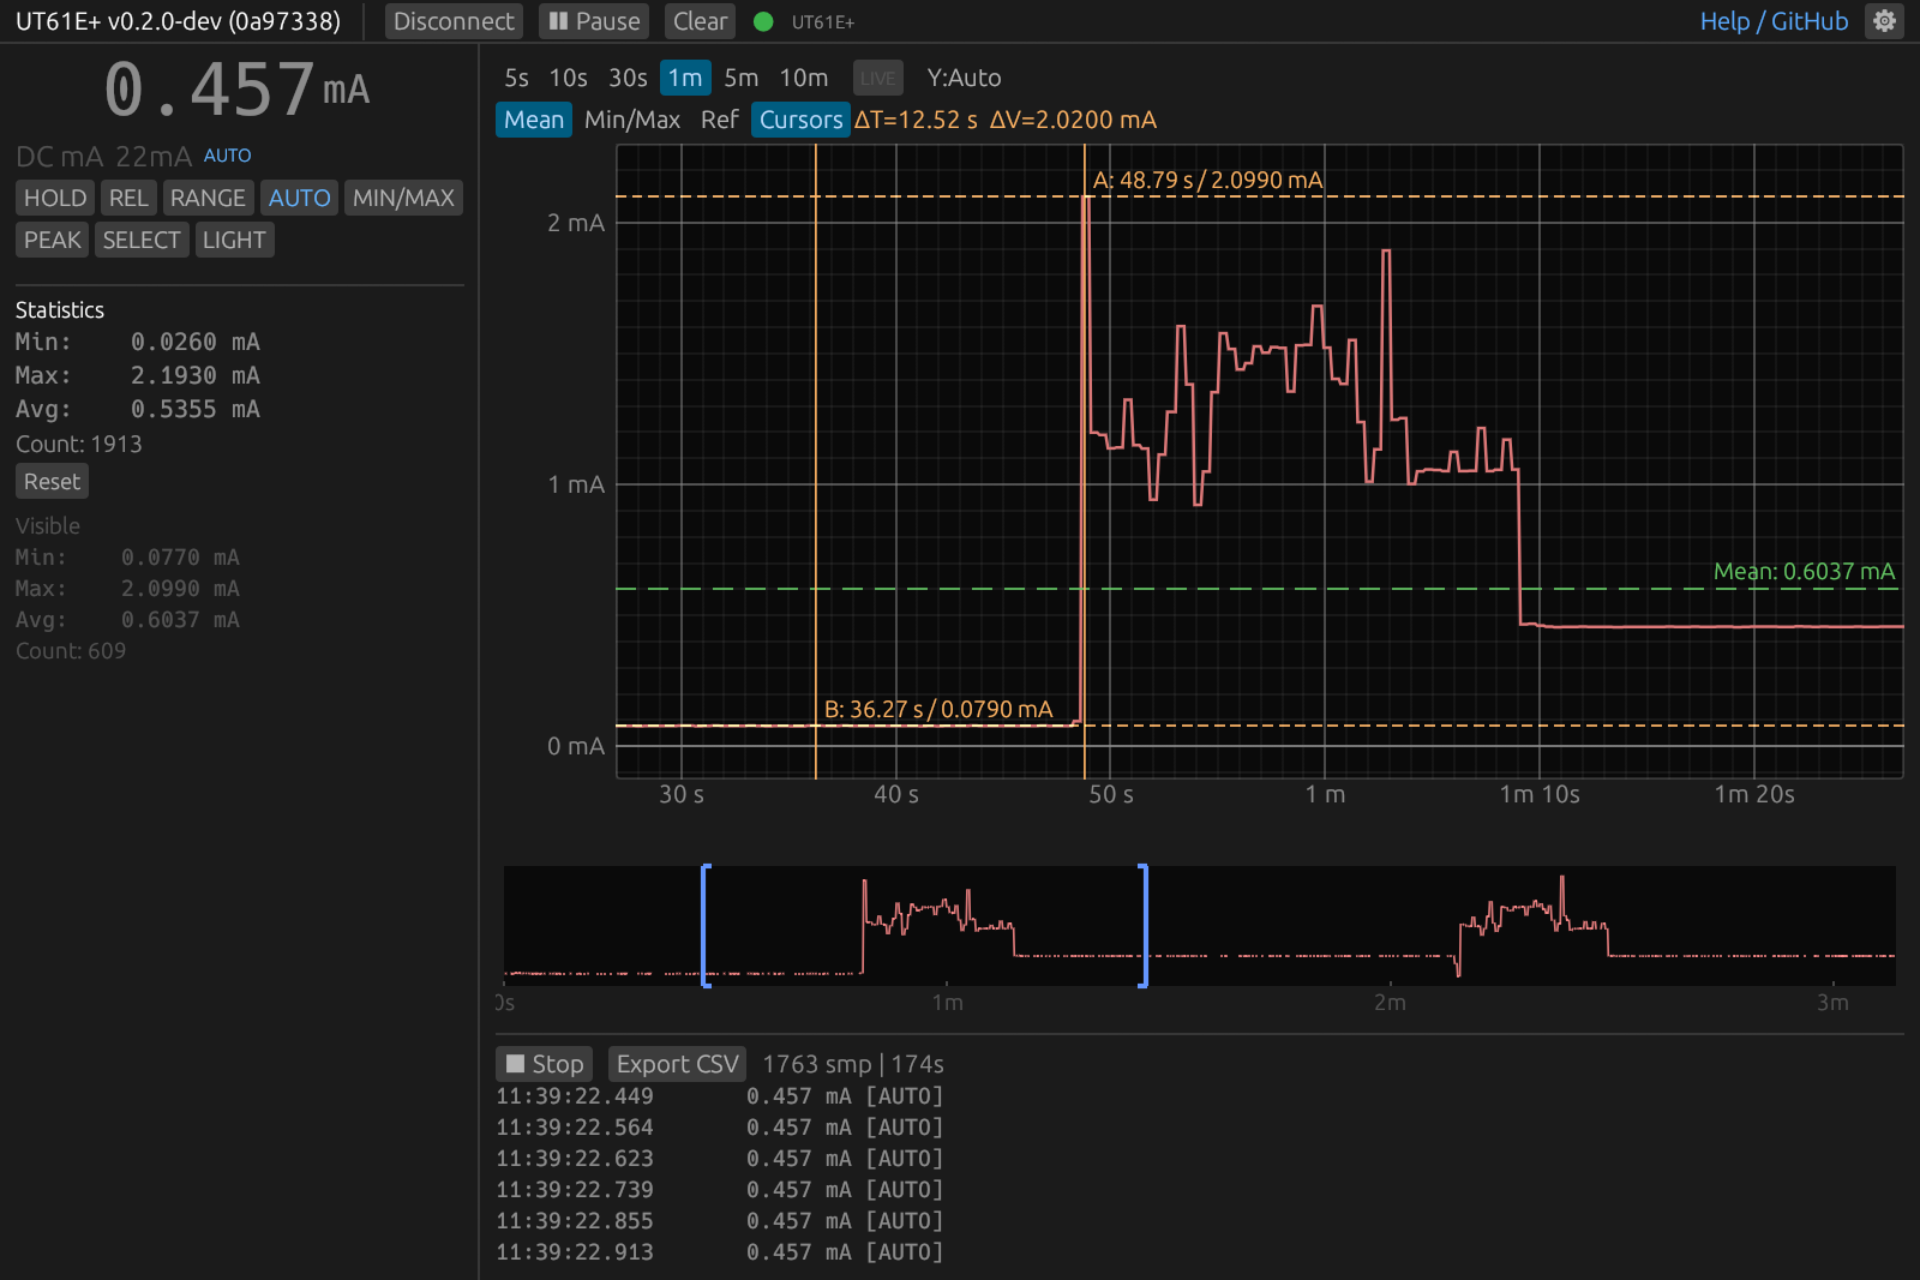
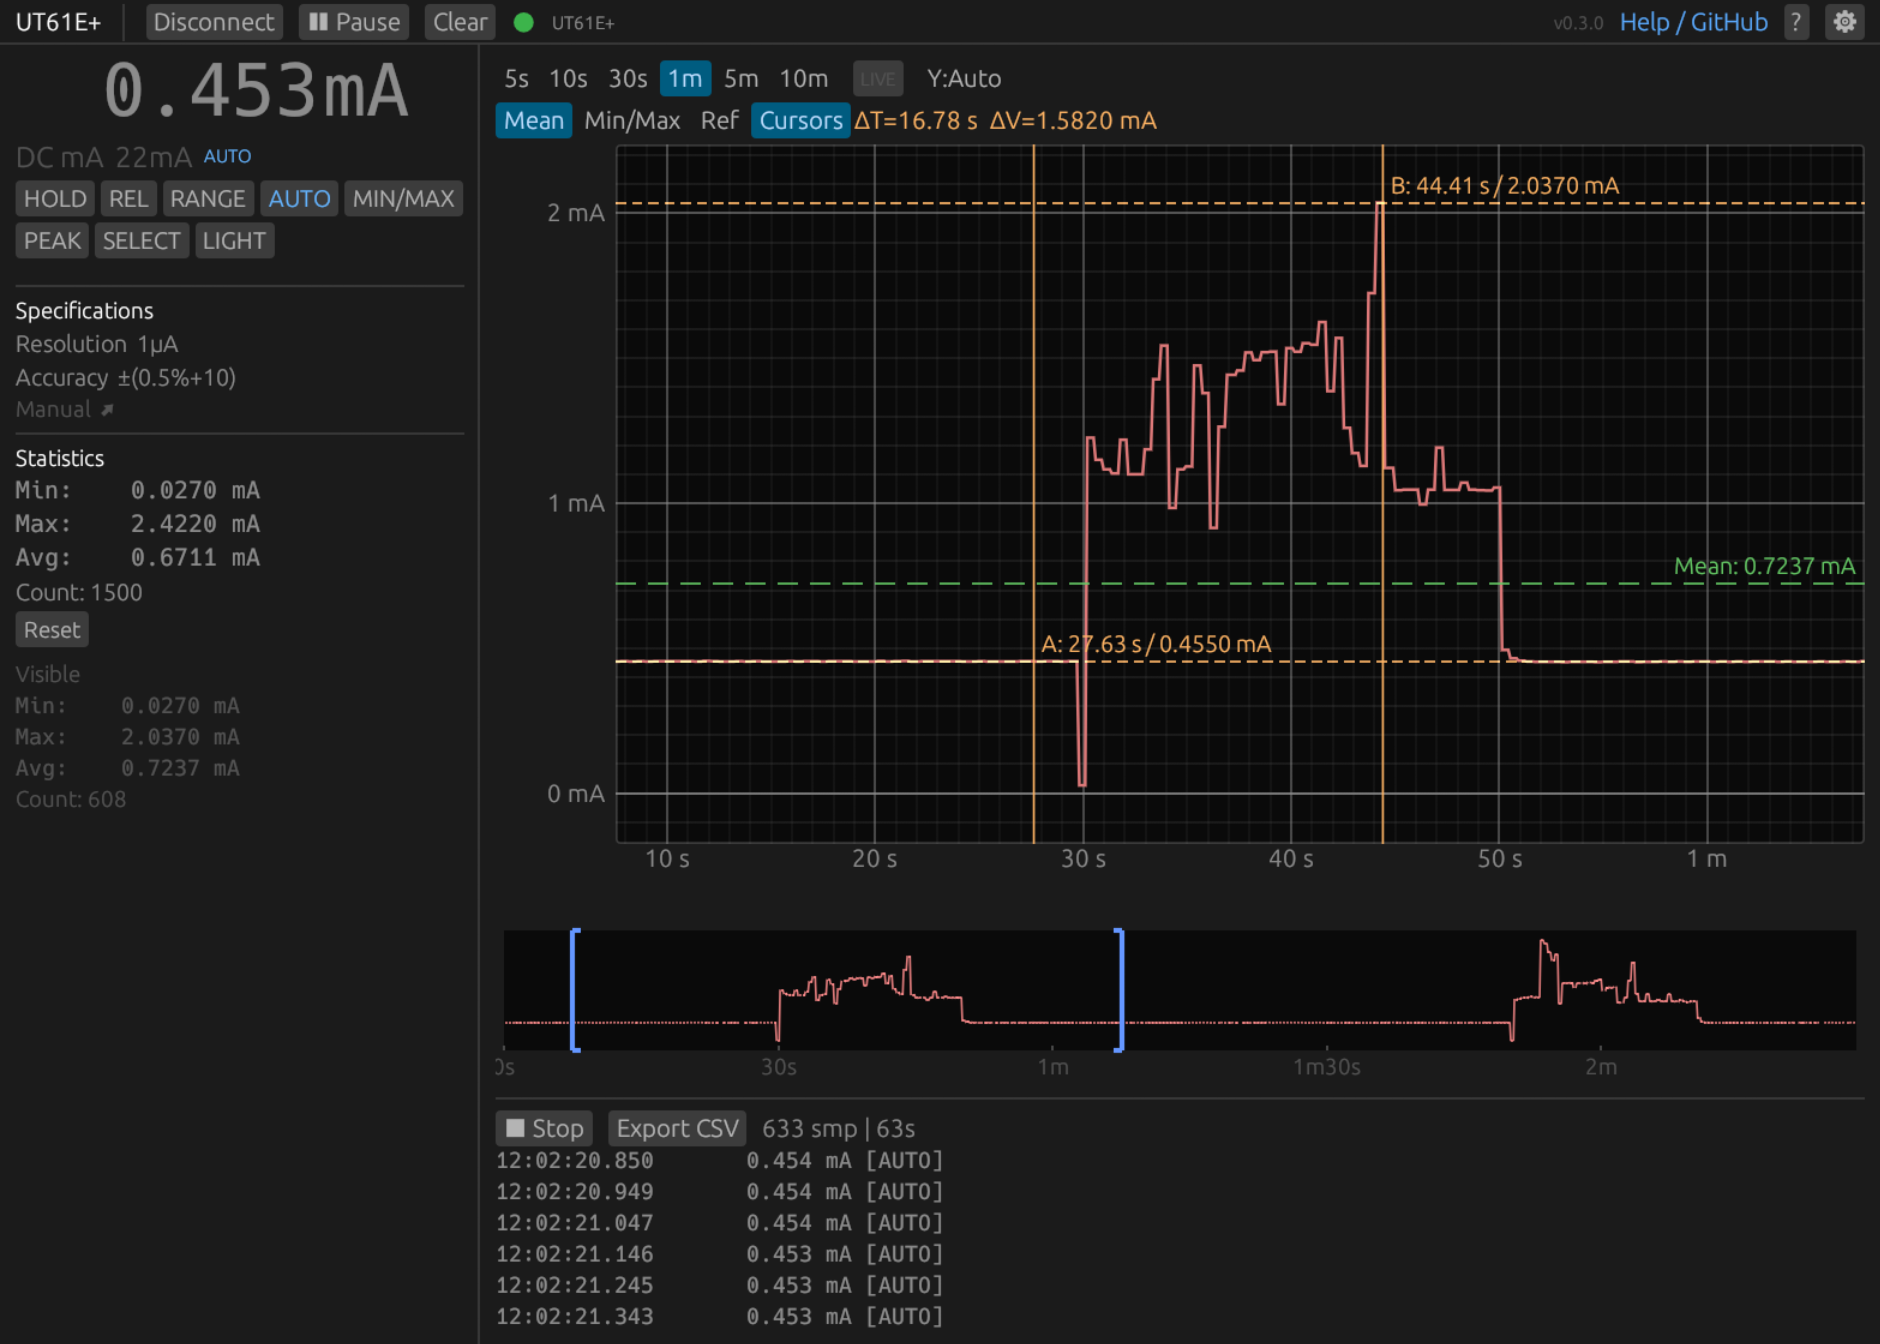
Release v0.3.0

diff --git a/CHANGELOG.md b/CHANGELOG.md
@@ -1,0 +1,114 @@
+# Changelog
+
+## v0.3.0
+
+### GUI
+
+- **Specifications panel** — shows per-range resolution, accuracy (with frequency bands for AC), input impedance, and notes from the device manual. Updates live as the meter changes mode/range. Covers UT61E+, UT61B+, UT61D+, UT161 family, and Mock. Includes "Manual" hyperlink when a URL is configured.
+- **Keyboard shortcuts** — `Ctrl+Shift+C` connect, `Space` pause, `Ctrl+L` clear, `Ctrl+R` record, `Ctrl+E` export, `Ctrl+±/0` zoom, `[`/`]` time window, arrows/Home/End graph navigation. Press `?` for in-app reference.
+- **Accessibility** — AccessKit labels on icon-only buttons (`?`, gear) and the minimap for screen reader support.
+- **Responsive top bar** — wraps to two rows when the window is too narrow.
+- **Mock device** — simulated device in the device selector for testing and demos. Cycles through DC V, AC V, Ohms, Capacitance, Hz, Temperature, DC mA, Overload, and NCV. Configurable via "Mock mode" setting. Remote control buttons toggle flags, SELECT advances mode.
+- **Device registry** — device selector populated from a central registry. Adding a new device requires zero GUI code changes.
+- Display unit now uses the same font size as the measurement value.
+- Recording sample values use `display_raw` for stable formatting.
+
+### CLI
+
+- **Mock device** (`--device mock`) — simulated measurements without hardware. Supports `read` (with `--mock-mode` to pin a specific mode) and `command`. Useful for testing output formats and scripting.
+- **Device registry** — `--device` flag resolved through central registry. Adding a new device requires zero CLI code changes.
+- Validation messaging now directs users to `capture` instead of `debug` for device verification.
+
+### Library
+
+- **Device registry** (`protocol/registry.rs`) — single source of truth for all selectable devices with IDs, aliases, display names, activation instructions, and protocol factory functions.
+- **Specification data** — per-range accuracy, resolution, input impedance, and notes for UT61E+, UT61B+, UT61D+, and UT161 family, transcribed from device manuals. Accessible via `lookup_spec()` and `lookup_mode_spec()`.
+- **Mock protocol** — `MockProtocol` implementing the `Protocol` trait with configurable scenarios, flag toggling, and mode cycling.
+- `Measurement` string fields use `Cow<'static, str>` to avoid heap allocation for static table data.
+- `RunningStats` moved to lib crate for reuse across CLI and GUI.
+- Shared `read_frame()` helper in framing module.
+- Golden tests switched from JSON to capture-compatible YAML format.
+
+### Bug fixes
+
+- Use `checked_duration_since()` instead of `duration_since()` in graph gap detection — prevents panic on backward clock jumps (VM suspend, NTP correction).
+- Fix tab order for top bar right-side items (settings gear, help link).
+- Fix angle brackets in docs rendered as invisible HTML on GitHub.
+
+### Internal
+
+- Large-scale refactoring: split `app.rs` into focused modules (graph, recording, display, settings, theme, controls), extracted shared helpers, deduplicated test utilities, replaced magic numbers with named constants.
+- 282 tests (up from 209 in v0.2.0).
+
+### Documentation
+
+- End-to-end guide for adding device support (`docs/adding-devices.md`).
+- Non-UNI-T device candidate research and VC880/VC650BT implementation plan.
+- GUI reference, CLI reference, UX design, and architecture docs updated for all new features.
+- `dump_specs` example for verifying specification data against manuals.
+
+**Full Changelog**: https://github.com/antoinecellerier/dmm-tools/compare/v0.2.0...v0.3.0
+
+## v0.2.0
+
+### Multi-Device Protocol Support
+
+Rearchitects the library to support multiple UNI-T multimeter families behind a common Protocol trait.
+
+### New device support
+
+| Family | Models | Status |
+|--------|--------|--------|
+| **UT61+/UT161** | UT61E+, UT61B+, UT61D+, UT161B/D/E | Verified (UT61E+), device tables for all |
+| **UT8803** | UT8803, UT8803E | Experimental — streaming protocol, 21-byte frames |
+| **UT171** | UT171A/B/C | Experimental — streaming, float32 values, 26 modes |
+| **UT181A** | UT181A | Experimental — streaming, float32 + unit strings, 97 modes |
+
+### CLI
+
+- `--device` flag for selecting device family.
+- `command` subcommand accepts free-form command names; run with no args to list available commands per device.
+- JSON output includes `"experimental": true/false` field.
+- Experimental warning on connect for unverified protocols.
+- Device-specific activation instructions shown after 5 consecutive timeouts.
+
+### GUI
+
+- Device selector in settings panel.
+- EXPERIMENTAL badge in top bar for unverified protocols.
+- Device-dependent remote controls — buttons only shown for supported commands.
+- Device name shown in top bar.
+- Float value display fallback for protocols without ASCII display strings.
+
+### Library
+
+- `Protocol` trait: `init`, `request_measurement`, `send_command`, `get_name`, `profile`, `capture_steps`.
+- Unified `Measurement` type with string-based mode/unit/range fields.
+- Shared framing functions for BE16, alternating-byte, 1-byte LE16, and 2-byte LE16 checksums.
+- Golden file test infrastructure.
+- 209 tests passing.
+
+**Full Changelog**: https://github.com/antoinecellerier/dmm-tools/compare/v0.1.0...v0.2.0
+
+## v0.1.0
+
+First release of dmm-tools — CLI and GUI for the UNI-T UT61E+ multimeter over USB.
+
+### CLI
+
+- Live measurement streaming with text, CSV, and JSON output.
+- Remote control — send button presses (hold, rel, range, min/max, peak, light, select).
+- Shell completions for bash, zsh, fish, and PowerShell.
+- Raw hex dump mode for protocol debugging.
+- Guided protocol capture wizard for bug reports and verification.
+
+### GUI
+
+- Real-time value display with large monospace readout and flag badges.
+- Time-series graph with 10K-point scrollable history and minimap.
+- Graph overlays: mean line, min/max envelope, reference lines with trigger markers, measurement cursors.
+- Statistics (min/max/avg) for all data and visible window.
+- Recording with CSV export (up to 500K samples).
+- Remote control buttons with live state highlighting.
+- Big meter mode, responsive layout, light/dark themes, UI zoom, persistent settings.
+- Auto-connect and auto-reconnect.
